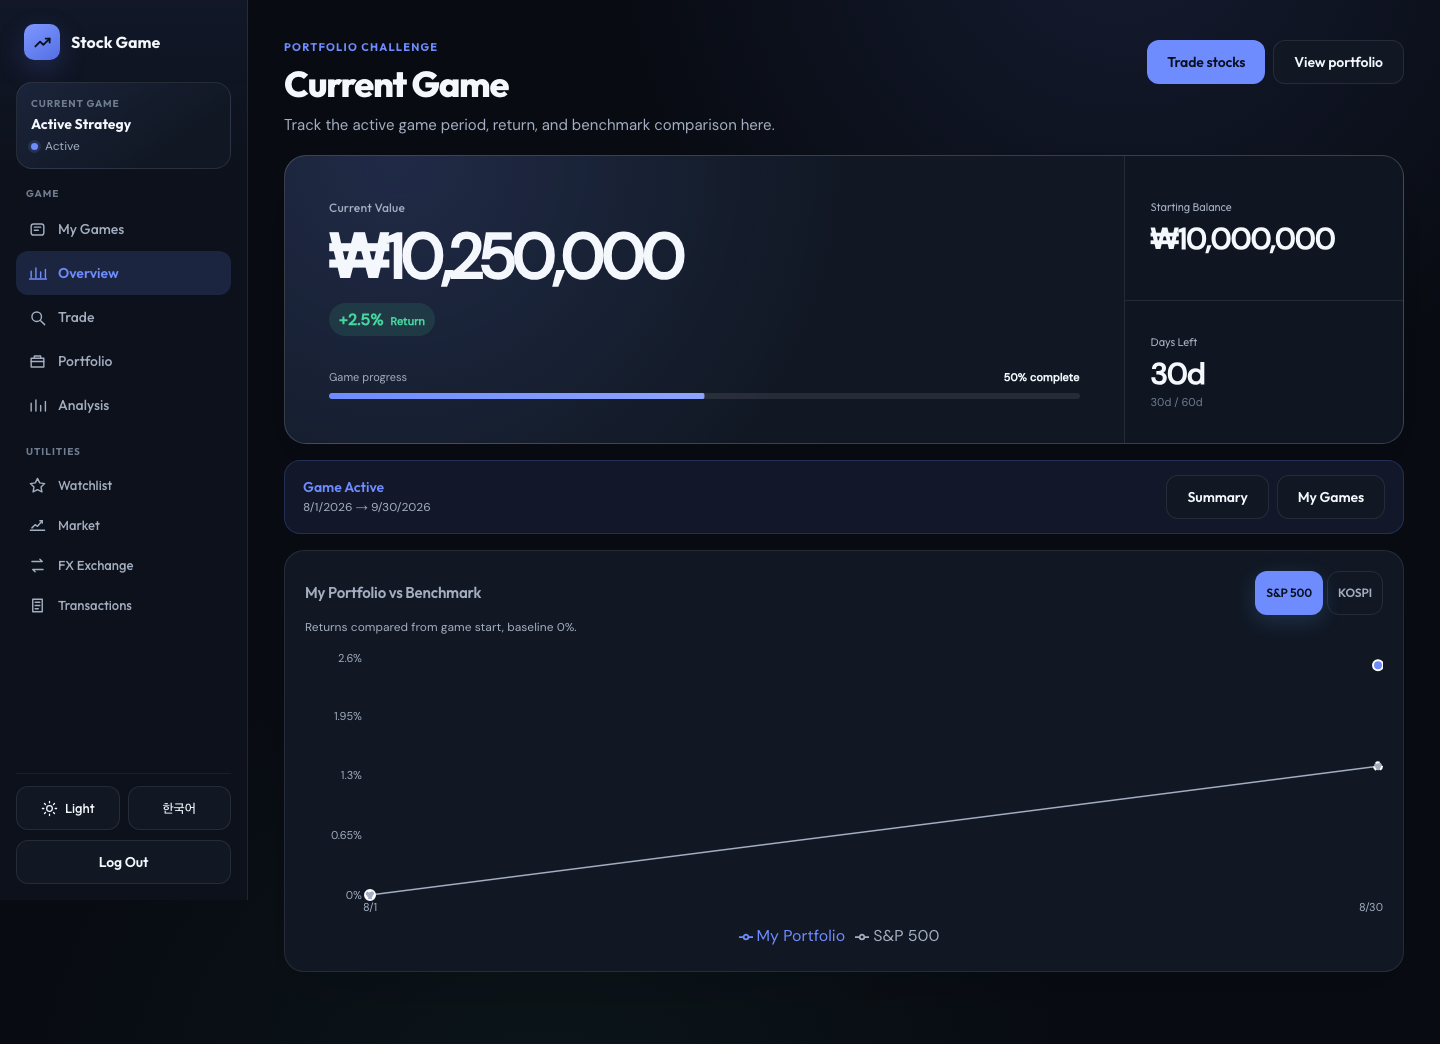
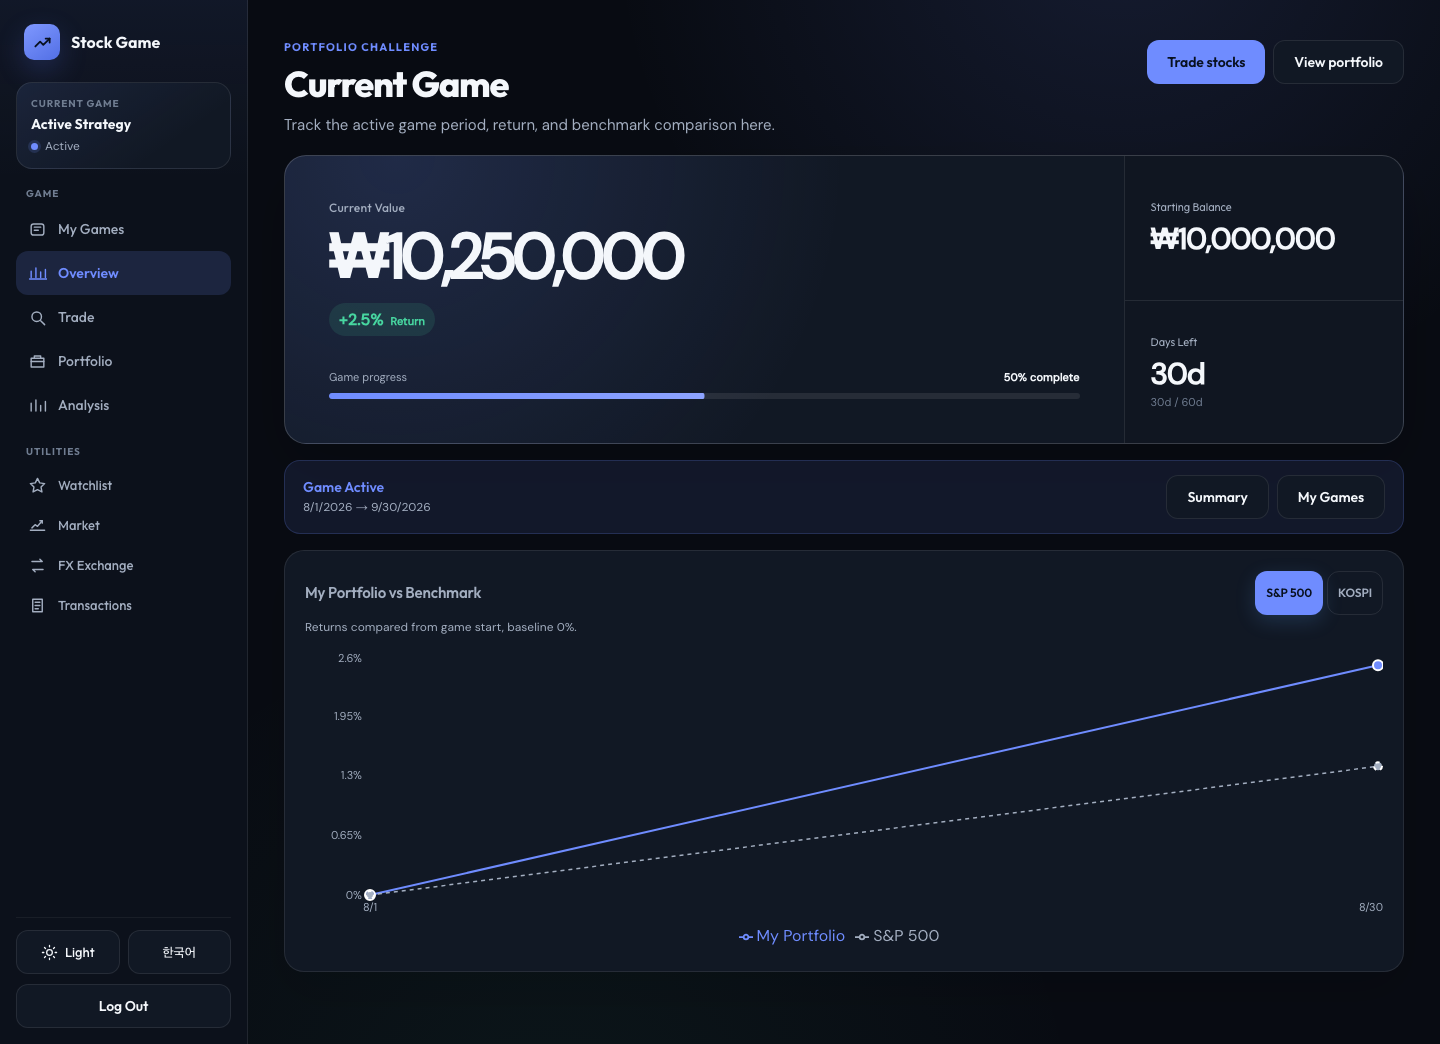
fix: align project evidence with current state

diff --git a/frontend/e2e/core-flow.spec.js b/frontend/e2e/core-flow.spec.js
@@ -223,6 +223,15 @@ async function expectDialogFocusTrap(page, dialog) {
   await expect(last).toBeFocused()
 }
 
+async function expectChartCaptureToBeStable(page) {
+  const chart = page.locator('.chart-visual')
+  const firstCapture = await chart.screenshot({ animations: 'disabled' })
+  await page.waitForTimeout(100)
+  const secondCapture = await chart.screenshot({ animations: 'disabled' })
+
+  expect(secondCapture.equals(firstCapture)).toBe(true)
+}
+
 test.beforeEach(async ({ page }) => {
   await page.clock.setFixedTime(new Date('2026-08-31T00:00:00Z'))
   await installApiFixture(page)
@@ -262,7 +271,16 @@ test('completes the core trading review flow', async ({ page }, testInfo) => {
   await expect(page.locator('.overview-hero')).toBeVisible()
   await expect(page.getByRole('button', { name: 'Trade stocks' })).toBeVisible()
   await expect(page.getByRole('img', { name: /My Portfolio: 2\.50%.*S&P 500: 1\.40%/ })).toBeVisible()
-  await page.screenshot({ path: testInfo.outputPath('desktop-game-status.png'), fullPage: true, animations: 'disabled' })
+  await expectChartCaptureToBeStable(page)
+  await page.setViewportSize({ width: 1440, height: 1044 })
+  const skipLinkState = await page.locator('.skip-link').evaluate((element) => ({
+    active: document.activeElement === element,
+    top: element.getBoundingClientRect().top,
+  }))
+  expect(skipLinkState.active).toBe(false)
+  expect(skipLinkState.top).toBeLessThan(0)
+  await page.screenshot({ path: testInfo.outputPath('performance-benchmark.png'), animations: 'disabled' })
+  await page.setViewportSize({ width: 1440, height: 900 })
 
   await page.locator('.app-sidebar').getByRole('link', { name: 'Trade' }).click()
   await expect(page.getByRole('heading', { name: 'Find your next trade' })).toBeVisible()
@@ -329,8 +347,10 @@ test('keeps the authenticated shell usable on a narrow screen', async ({ page },
     expect(box.height).toBeGreaterThanOrEqual(44)
   }
 
+  await page.setViewportSize({ width: 375, height: 844 })
   expect(await page.evaluate(() => document.documentElement.scrollWidth <= window.innerWidth)).toBe(true)
-  await page.screenshot({ path: testInfo.outputPath('mobile-game-status.png'), fullPage: true, animations: 'disabled' })
+  await page.setViewportSize({ width: 390, height: 844 })
+  await page.screenshot({ path: testInfo.outputPath('mobile-game-status.png'), animations: 'disabled' })
   await page.getByText('More', { exact: true }).click()
   await expect(page.locator('.mobile-more-menu').getByRole('link', { name: 'Analysis' })).toBeVisible()
   await page.screenshot({ path: testInfo.outputPath('mobile-more-menu.png'), fullPage: true, animations: 'disabled' })
@@ -394,6 +414,8 @@ test('keeps secondary workspaces clear and connected', async ({ page }, testInfo
 
   await page.locator('.app-sidebar').getByRole('link', { name: 'Market' }).click()
   await expect(page.getByRole('heading', { name: 'Market' })).toBeVisible()
+  const marketRow = page.getByRole('button', { name: /Apple.*View details/ })
+  await expect(marketRow.getByText('1', { exact: true })).toHaveCount(0)
 
   await page.locator('.app-sidebar').getByRole('link', { name: 'FX Exchange' }).click()
   await expect(page.getByRole('heading', { name: 'Currency Exchange' })).toBeVisible()

diff --git a/frontend/src/pages/Analytics.jsx b/frontend/src/pages/Analytics.jsx
@@ -345,7 +345,7 @@ function Analytics() {
                   labelStyle={{ fontSize: 12, color: 'var(--text-secondary)' }}
                   contentStyle={{ borderRadius: 12, border: '1px solid var(--border)', fontSize: 13, background: 'var(--card-bg)' }}
                 />
-                <Line type="linear" dataKey="total_pct" stroke="var(--accent)" strokeWidth={2} dot={false} name="total_pct" />
+                <Line type="linear" dataKey="total_pct" stroke="var(--accent)" strokeWidth={2} dot={false} name="total_pct" isAnimationActive={false} />
               </LineChart>
             </ResponsiveContainer>
           </div>
@@ -383,9 +383,9 @@ function Analytics() {
                   labelStyle={{ fontSize: 12, color: 'var(--text-secondary)' }}
                   contentStyle={{ borderRadius: 12, border: '1px solid var(--border)', fontSize: 13, background: 'var(--card-bg)' }}
                 />
-                <Line type="monotone" dataKey="stocks_pct" stroke="var(--accent)" strokeWidth={2} dot={false} name="stocks_pct" />
+                <Line type="monotone" dataKey="stocks_pct" stroke="var(--accent)" strokeWidth={2} dot={false} name="stocks_pct" isAnimationActive={false} />
                 <Line type="monotone" dataKey="cash_pct" stroke="var(--text-secondary)" strokeWidth={1.5} dot={false}
-                  strokeDasharray="4 4" name="cash_pct" />
+                  strokeDasharray="4 4" name="cash_pct" isAnimationActive={false} />
               </LineChart>
             </ResponsiveContainer>
           </div>

diff --git a/frontend/src/pages/Market.jsx b/frontend/src/pages/Market.jsx
@@ -67,7 +67,7 @@ function Market() {
         </div>
       ) : (
         <div className="card">
-          {stocks.map((s, i) => {
+          {stocks.map((s) => {
             const name = getStockName(s.ticker, s.name, i18n.language);
             return (
               <button
@@ -86,23 +86,6 @@ function Market() {
                 }}
               >
                 <div style={{ display: "flex", alignItems: "center", gap: 12 }}>
-                  <span
-                    style={{
-                      width: 28,
-                      height: 28,
-                      borderRadius: "50%",
-                      background: 'var(--border-light)',
-                      display: "flex",
-                      alignItems: "center",
-                      justifyContent: "center",
-                      fontSize: 12,
-                      fontWeight: 600,
-                      color: 'var(--text-secondary)',
-                      flexShrink: 0,
-                    }}
-                  >
-                    {i + 1}
-                  </span>
                   <div>
                     <strong style={{ fontSize: 14 }}>{name}</strong>
                     <div style={{ fontSize: 12, color: 'var(--text-secondary)' }}>

diff --git a/frontend/src/pages/Game.jsx b/frontend/src/pages/Game.jsx
@@ -556,11 +556,11 @@ function Game() {
                   <Legend />
                   <Line type="monotone" dataKey="portfolio" stroke="var(--accent)" strokeWidth={2}
                     dot={mergedChartData.length <= 2 ? { r: 5, fill: 'var(--accent)', stroke: '#fff', strokeWidth: 2 } : false}
-                    name={t('game.myPortfolio')} connectNulls />
+                    name={t('game.myPortfolio')} connectNulls isAnimationActive={false} />
                   <Line type="monotone" dataKey="benchmark" stroke="var(--text-secondary)" strokeWidth={1.5}
                     dot={mergedChartData.length <= 2 ? { r: 4, fill: 'var(--text-secondary)', stroke: '#fff', strokeWidth: 2 } : false}
                     strokeDasharray="4 4"
-                    name={benchmarkIndex === 'SP500' ? 'S&P 500' : 'KOSPI'} connectNulls />
+                    name={benchmarkIndex === 'SP500' ? 'S&P 500' : 'KOSPI'} connectNulls isAnimationActive={false} />
                 </LineChart>
               </ResponsiveContainer>
             </div>

diff --git a/frontend/src/dependencies.test.js b/frontend/src/dependencies.test.js
@@ -5,12 +5,6 @@ import { describe, expect, it } from 'vitest'
 
 // react-router below 7.18.0 carries an open-redirect and a route-matching DoS.
 // This floor keeps a reinstall from resolving backwards past those fixes.
-//
-// `npm audit` still reports GHSA-qwww-vcr4-c8h2 (RSC-mode CSRF) against every
-// 7.12+ release, and its only offered remedy is a breaking downgrade to 7.11.0.
-// That is declined on purpose: the app is a client-only SPA (BrowserRouter, no
-// hydrateRoot/renderToString anywhere), so RSC mode never runs, and downgrading
-// would trade two reachable fixes for one unreachable advisory.
 const MINIMUM = [7, 18, 0]
 
 function installedVersion(pkg) {

diff --git a/frontend/src/pages/SearchStock.jsx b/frontend/src/pages/SearchStock.jsx
@@ -280,7 +280,7 @@ function SearchStock() {
                     contentStyle={{ borderRadius: 12, border: '1px solid var(--border)', fontSize: 13, fontFamily: 'var(--font-body)', background: 'var(--card-bg)' }}
                   />
                   <Line type="monotone" dataKey="close" stroke={priceChange >= 0 ? 'var(--positive)' : 'var(--negative)'}
-                    strokeWidth={2} dot={false} />
+                    strokeWidth={2} dot={false} isAnimationActive={false} />
                 </LineChart>
               </ResponsiveContainer>
             ) : (

diff --git a/backend/app/services/market_service.py b/backend/app/services/market_service.py
@@ -7,13 +7,13 @@ from app.services.stock_service import US_STOCK_NAMES_EN, KR_STOCK_NAMES_EN
 
 logger = logging.getLogger(__name__)
 
-# ── Static ranking by market cap (updated periodically) ─────────
-# These are pre-sorted by approximate market cap, largest first.
-# The rank order is what matters, not the exact cap number.
-# Update this list every few months if major changes happen.
+# ── Point-in-time large-cap discovery sets ───────────────────────
+# These lists preserve the approximate market-cap order captured on the dates
+# below. They choose which symbols the legacy /market/top30 route attempts to
+# quote; they are not a live market-cap ranking.
 
 US_TOP_50 = [
-    # Verified March 24, 2026 — finhacker.cz/largest-us-companies-by-market-cap
+    # Snapshot captured March 24, 2026.
     "NVDA", "AAPL", "GOOGL", "MSFT", "AMZN", "AVGO", "META", "TSLA",
     "BRK-B", "WMT", "LLY", "JPM", "XOM", "V", "JNJ", "MU",
     "MA", "COST", "ORCL", "CVX", "NFLX", "PLTR", "ABBV", "AMD",
@@ -24,7 +24,7 @@ US_TOP_50 = [
 ]
 
 KR_TOP_50 = [
-    # Verified March 2026 — companiesmarketcap.com, disfold.com
+    # Snapshot captured March 2026.
     "005930.KS", "000660.KS", "207940.KS", "005380.KS", "000270.KS",
     "012450.KS", "105560.KS", "055550.KS", "006400.KS", "267260.KS",
     "068270.KS", "035420.KS", "138040.KS", "086790.KS", "015760.KS",
@@ -103,7 +103,11 @@ def _format_top_30(
 
 
 def fetch_top_30(market: str) -> list:
-    """Download prices in batch, rank by static market cap order."""
+    """Download prices for the first available large-cap candidates.
+
+    The legacy ``rank`` response field is the candidate's point-in-time display
+    order, not a current market-cap rank.
+    """
     candidates, _ = _market_inputs(market)
     return _format_top_30(market, market_data_provider.fetch_market_closes(candidates))
 

diff --git a/backend/app/routes/game.py b/backend/app/routes/game.py
@@ -139,7 +139,7 @@ def _create_session(
     )
     db.add(session)
 
-    # Legacy mirror for old routes that still read User.balance_* during migration.
+    # Legacy mirror retained for compatibility routes that still read User.balance_*.
     user.balance_krw = starting_balance_krw
     user.balance_usd = starting_balance_usd
 
@@ -511,9 +511,8 @@ def game_sessions(
     db: Session = Depends(get_db),
     current_user: User = Depends(get_current_user),
 ):
-    # Backward compatibility: the current frontend treats this endpoint as the
-    # playable sessions list. Full session history is opt-in until the frontend
-    # is session-routed and can represent completed/archived/imported sessions.
+    # Backward compatibility: callers that omit both flags still receive only
+    # playable sessions. The current frontend opts into full session history.
     sessions = (
         db.query(GameSession)
         .filter(GameSession.user_id == current_user.id)
@@ -658,8 +657,8 @@ def start_new_game(
     db: Session = Depends(get_db),
     current_user: User = Depends(get_current_user),
 ):
-    # Compatibility alias for the current frontend. It no longer resets data;
-    # frontend copy should be updated before presenting it as a restart action.
+    # Compatibility alias for legacy clients. It creates a separate session and
+    # no longer resets existing game data.
     session = _create_session(
         db,
         current_user,

diff --git a/backend/app/main.py b/backend/app/main.py
@@ -64,10 +64,10 @@ DEV_ORIGINS = [
 def resolve_allowed_origins(env) -> list[str]:
     """CORS origins for this environment.
 
-    FRONTEND_URL is set only on the deployed backend (render.yaml declares it
-    sync:false), so its absence means local dev. Keeping the dev-server origins
-    out of the deployed allowlist stops a page on a developer's own machine
-    from calling production.
+    Production sets FRONTEND_URL through Render (render.yaml declares it
+    sync:false); its absence selects the documented local-development origins.
+    Keeping those dev-server origins out of the deployed allowlist stops a page
+    on a developer's own machine from calling production.
     """
     frontend_url = env.get("FRONTEND_URL")
     if frontend_url:
@@ -106,9 +106,9 @@ async def lifespan(app: FastAPI):
     # brief DB outage doesn't crash the worker before it can even boot.
     _init_db_with_retry()
 
-    # Create-or-reset the public demo account to its baseline on every boot,
-    # so reviewers always land on a pristine portfolio regardless of what a
-    # previous visitor did. Wrapped so a seed failure can never block startup.
+    # Create-or-reset the shared public demo account on every boot. Visitors can
+    # change it between boots; the next successful start restores the baseline.
+    # Wrapped so a seed failure can never block startup.
     db = SessionLocal()
     try:
         seed_demo(db)

diff --git a/backend/app/services/seed_service.py b/backend/app/services/seed_service.py
@@ -36,18 +36,16 @@ STARTING_BALANCE_KRW = 10_000_000.0
 DURATION_DAYS = 90
 PRIMARY_START = datetime(2026, 7, 2, tzinfo=timezone.utc)
 BACKDATE_DAYS = 12          # fixed July 2–14 showcase snapshot window
-SEED_RATE = 1500.0          # fixed FX rate, anchored to the live USD/KRW
-                            # (~1498.7 on 2026-07-11) so snapshot valuations
-                            # match the live-rate header
+SEED_RATE = 1500.0          # fixed point-in-time FX anchor for the synthetic
+                            # July 2026 showcase history
 
 # Timeline of demo trades. day = offset from game start.
 # ("EXCHANGE", day, amount_krw) — KRW -> USD at SEED_RATE
 # ("BUY"/"SELL", day, ticker, market, currency, quantity, price)
 #
-# Cost bases are anchored to live closes as of 2026-07-11 (within a few
-# percent), so the live-priced header, the snapshot-driven charts, and the
-# daily-change chip all tell one consistent story: a modest, mixed-P/L
-# portfolio. If the demo ages badly as markets move, re-anchor these prices.
+# Cost bases are a fixed July 2026 point-in-time anchor. Current live valuations
+# can diverge as markets move; re-anchor only in an explicitly reviewed demo
+# refresh.
 _TIMELINE = [
     ("EXCHANGE", 0, 4_000_000.0),
     ("BUY", 0, "005930.KS", "KRX", "KRW", 8, 272_000.0),   # Samsung — Technology

diff --git a/backend/app/services/static_fundamentals.py b/backend/app/services/static_fundamentals.py
@@ -1,11 +1,11 @@
 # ── Static Sector & Industry Map ────────────────────────────────────
-# Primary source for sector/industry data.
-# Yahoo Finance .info is unreliable — this dictionary is the truth.
+# Application fallback for consistent sector/industry labels when Yahoo's
+# metadata is missing or inconsistent.
 # Format: "TICKER": ("Sector", "Industry")
 #
 # To add a new stock, just add a line here.
-# Sector changes are extremely rare (only during major restructuring),
-# so this data stays accurate for years.
+# Static classifications can drift after reorganizations and need periodic
+# review when a displayed company changes its reporting structure.
 
 STATIC_FUNDAMENTALS: dict[str, tuple[str, str]] = {
     # ════════════════════════════════════════════════════════════════

diff --git a/backend/app/services/public_rate_limit.py b/backend/app/services/public_rate_limit.py
@@ -1,9 +1,10 @@
 """Throttles for routes that are cheap to call and expensive to serve.
 
-Market data proxies to Yahoo and only populates its caches on success, so a
-miss always costs an outbound call; without a ceiling one client can exhaust
-the deployment's upstream quota. Trades are cheap for the caller too but each
-writes a transaction and a snapshot row.
+Market data proxies to Yahoo. Price and metadata misses are cached briefly,
+while search and history requests can still reach upstream on every call;
+without a ceiling one client can exhaust the deployment's upstream quota.
+Trades are cheap for the caller too but each writes a transaction and a
+snapshot row.
 
 Both limits are keyed per caller rather than process-wide for the same reason
 the auth limiter is: a shared counter lets one client deny the route to all.
